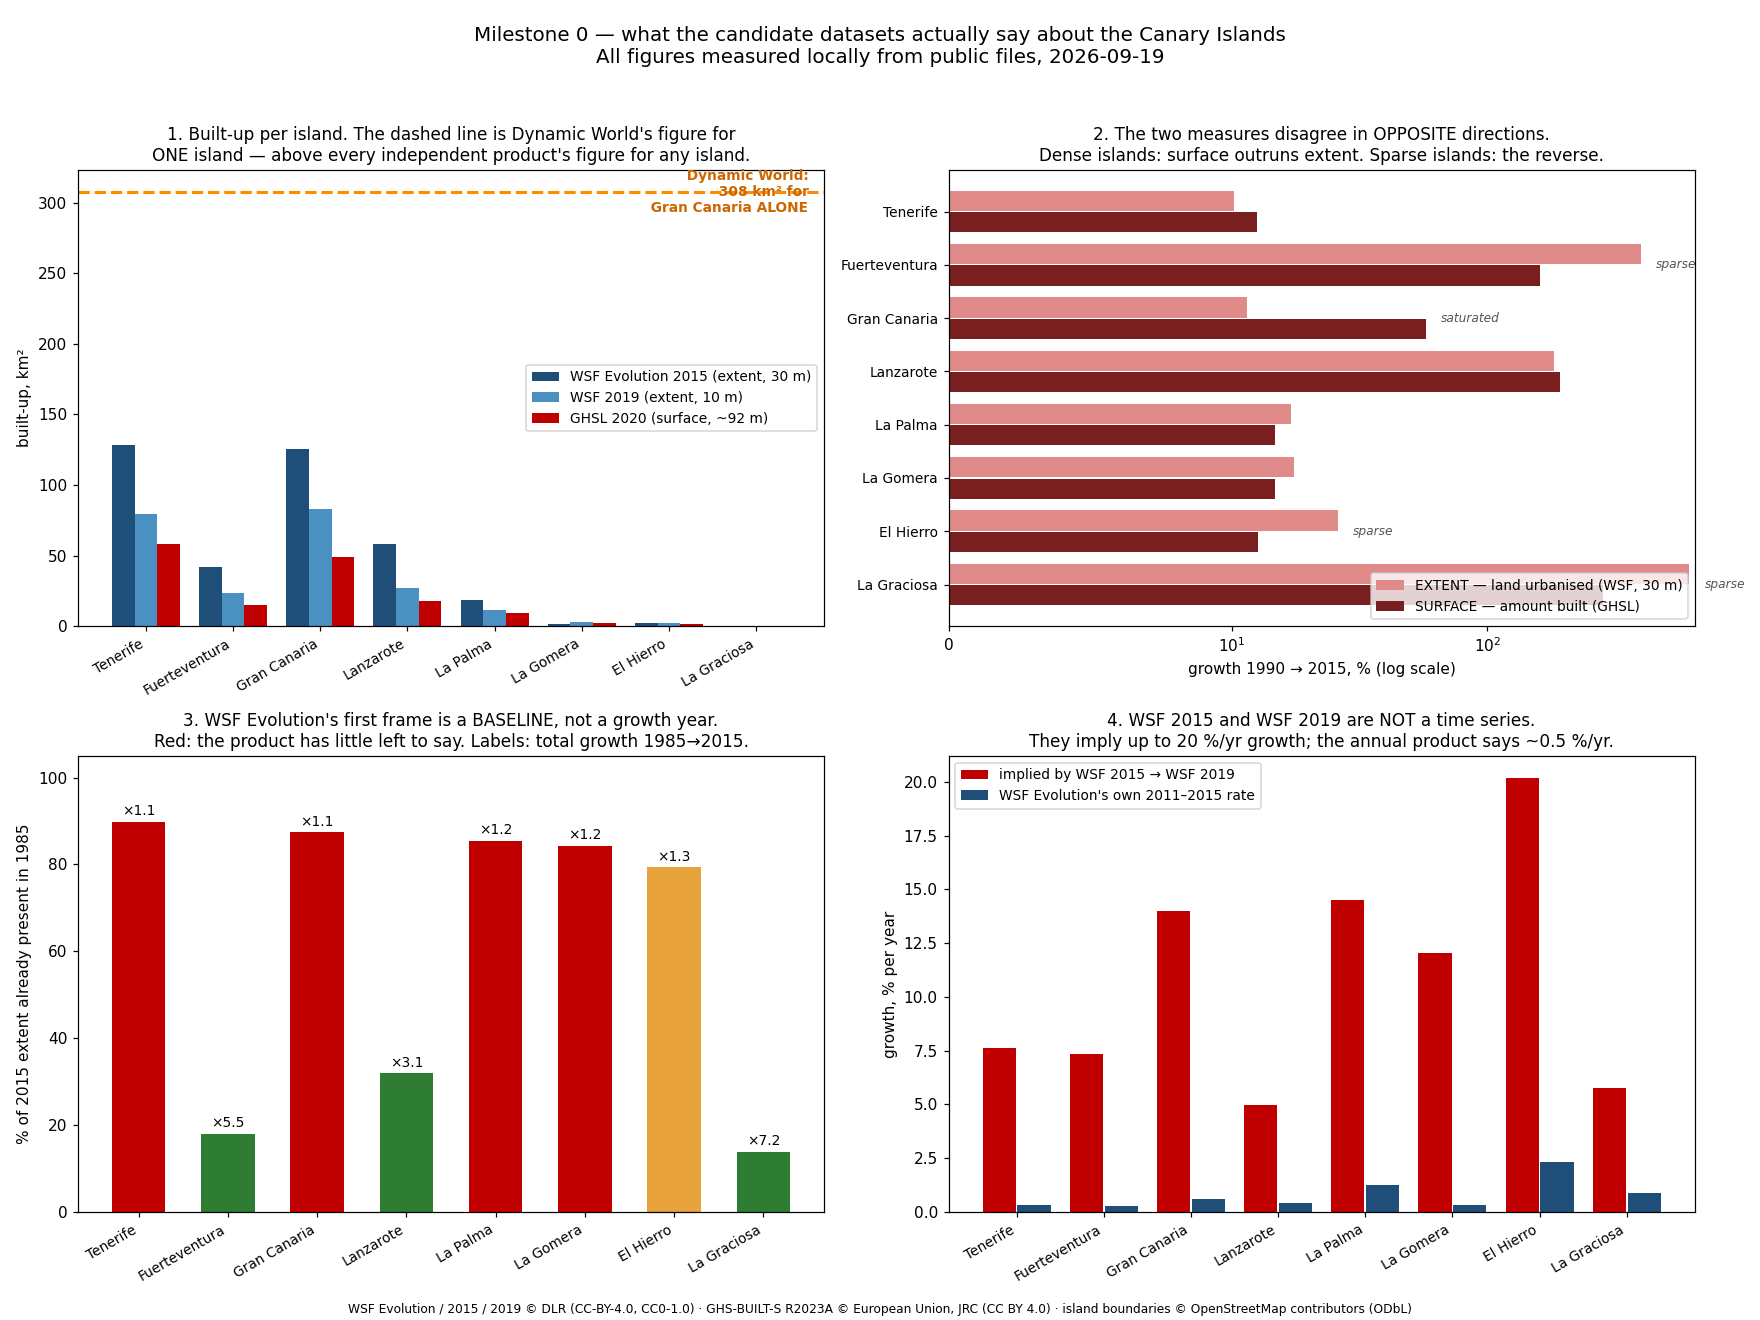
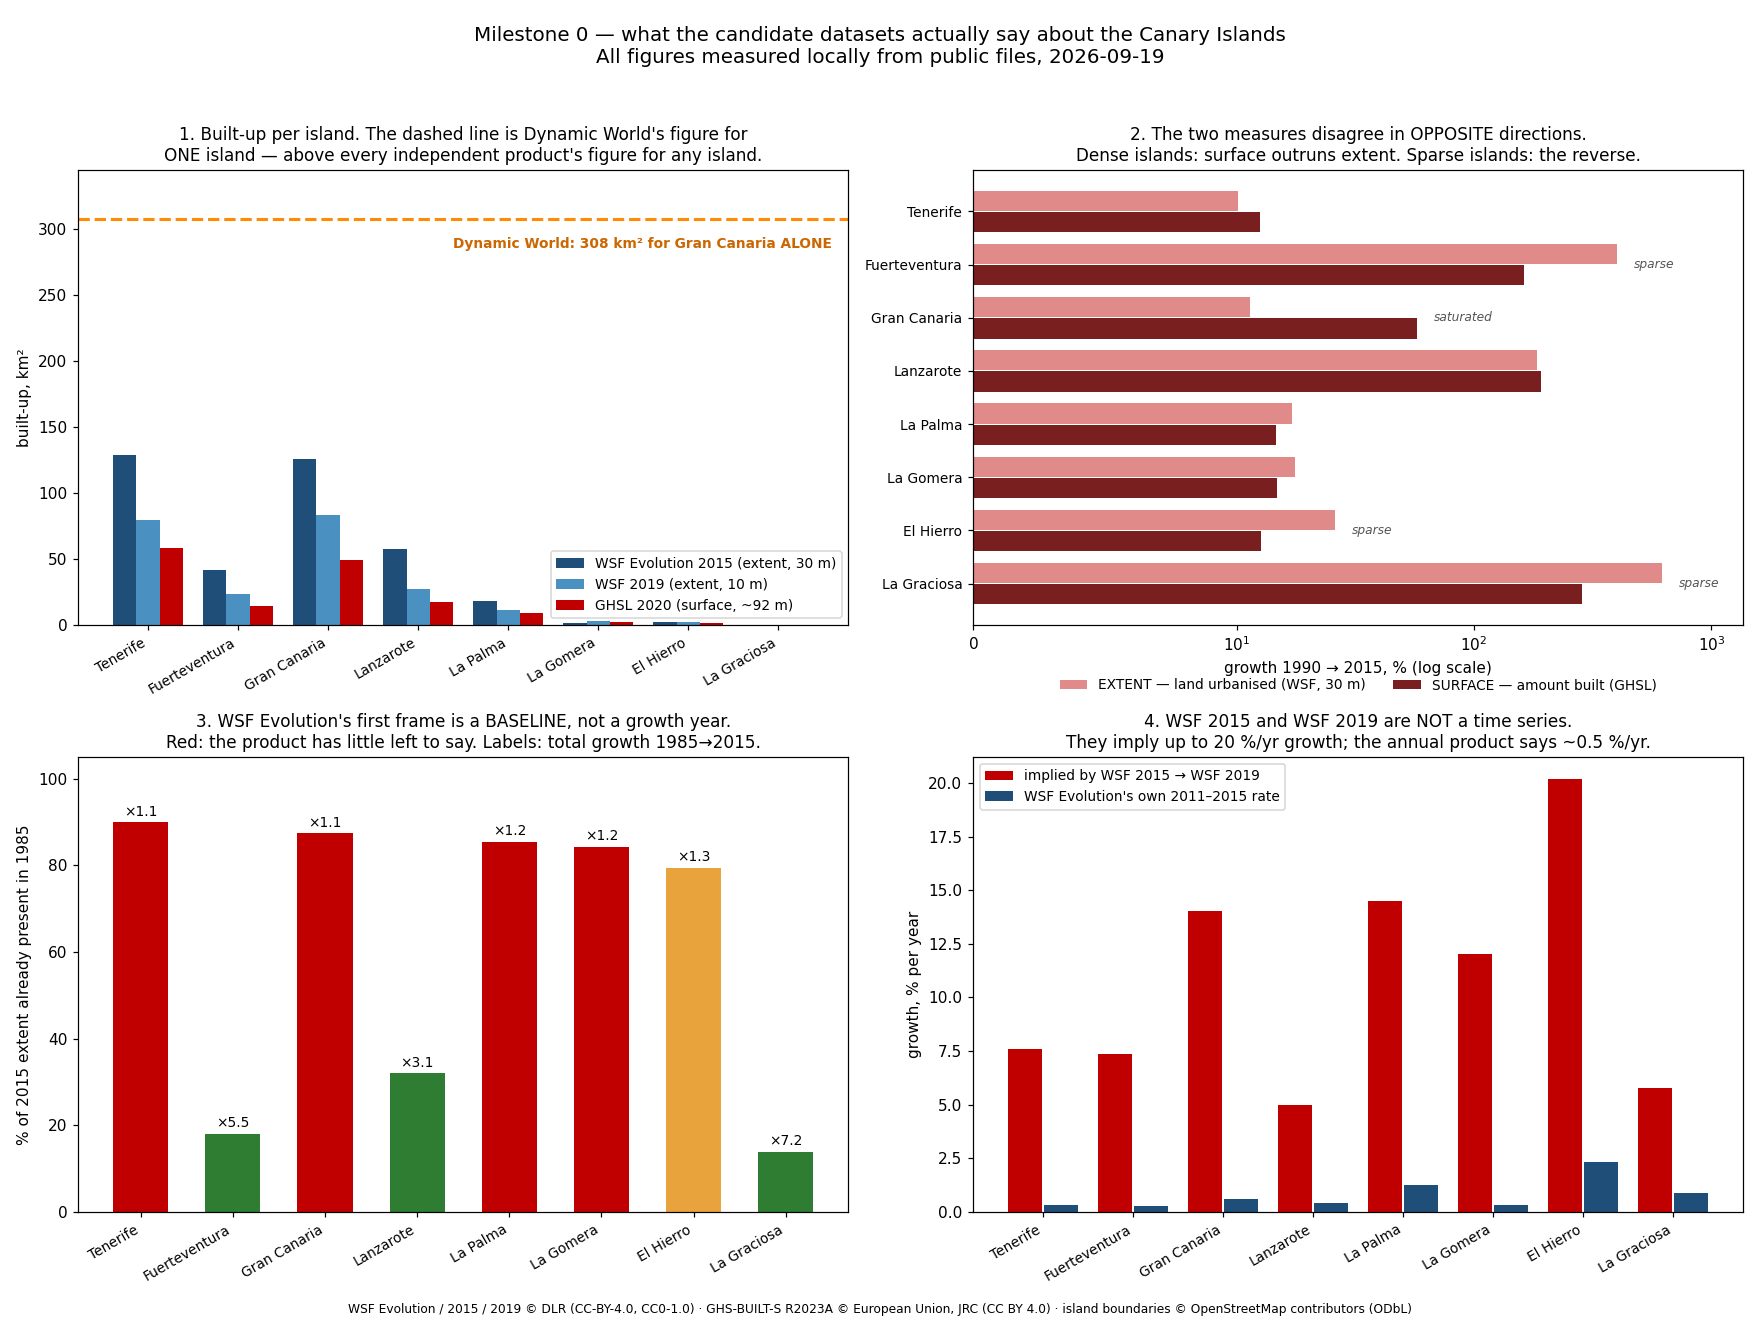
Tidy the M0 summary figure layout
The Dynamic World annotation overlapped its own reference line and the panel-2
legend covered La Graciosa's bars.

diff --git a/docs/figures/src/m0_results.py b/docs/figures/src/m0_results.py
@@ -45,8 +45,10 @@ def main():
                 for i in order]
         ax.bar(x + (k - 1) * width, vals, width, label=label, color=colour)
     ax.axhline(DW_GRAN_CANARIA_2016, color="#ff8c00", ls="--", lw=2)
-    ax.text(len(order) - 0.4, DW_GRAN_CANARIA_2016, f" Dynamic World:\n {DW_GRAN_CANARIA_2016:.0f} km² for\n Gran Canaria ALONE",
-            va="center", ha="right", fontsize=9, color="#cc6600", fontweight="bold")
+    ax.text(len(order) - 0.4, DW_GRAN_CANARIA_2016 - 14,
+            f"Dynamic World: {DW_GRAN_CANARIA_2016:.0f} km² for Gran Canaria ALONE",
+            va="top", ha="right", fontsize=9, color="#cc6600", fontweight="bold")
+    ax.set_ylim(0, DW_GRAN_CANARIA_2016 * 1.12)
     ax.set_xticks(x); ax.set_xticklabels(order, rotation=30, ha="right", fontsize=9)
     ax.set_ylabel("built-up, km²"); ax.legend(fontsize=9)
     ax.set_title("1. Built-up per island. The dashed line is Dynamic World's figure for\n"
@@ -64,13 +66,15 @@ def main():
     ax.barh(x + 0.2, sur, 0.38, label="SURFACE — amount built (GHSL)", color="#7a1f1f")
     ax.set_yticks(x); ax.set_yticklabels(order, fontsize=9); ax.invert_yaxis()
     ax.set_xscale("symlog", linthresh=10)
-    ax.set_xlabel("growth 1990 → 2015, % (log scale)"); ax.legend(fontsize=9, loc="lower right")
+    ax.set_xlabel("growth 1990 → 2015, % (log scale)")
+    ax.legend(fontsize=9, loc="upper center", bbox_to_anchor=(0.5, -0.09), ncol=2, frameon=False)
     ax.set_title("2. The two measures disagree in OPPOSITE directions.\n"
                  "Dense islands: surface outruns extent. Sparse islands: the reverse.", fontsize=11)
     for xi, (e, s, isl) in enumerate(zip(ext, sur, order)):
         note = "saturated" if s > e * 2 else ("sparse" if e > s * 1.5 else "")
         if note:
-            ax.text(max(e, s) * 1.15, xi, note, va="center", fontsize=8, style="italic", color="#555")
+            ax.text(max(e, s) * 1.18, xi, note, va="center", fontsize=8, style="italic", color="#555")
+    ax.set_xlim(right=max(max(ext), max(sur)) * 2.2)
 
     # --- 3. how much of WSF Evolution is already in its first frame -----------
     ax = axs[1, 0]
